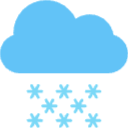
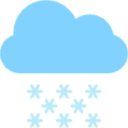
Weather condition styling updates
Condition Icon updates, position and size, for conditions 1 (sunny) - 23 (snow). Updated icon art for fog, flurries, and snow.

diff --git a/FB_Versa3_Sense/weather-watch/app/index.js b/FB_Versa3_Sense/weather-watch/app/index.js
@@ -213,7 +213,7 @@ newfile.initialize((data) => {
     
     const maxTextLength = 15;
     locationLabel.text = truncate(data.location, maxTextLength);
-
+locationLabel.text = "Mmmmmmmmmmmmmm"; // TODO remove
     data = units.temperature === "C" ? data : toFahrenheit(data);
     let degreeSymbol = "\u00B0";
     let lettertMarker = units.temperature === "C" ? `C` : `F`;
@@ -236,47 +236,78 @@ newfile.initialize((data) => {
  * @param {*} condition 
  */
 function updateWeatherConditionIcon(condition) {
+  resetConditionIconStyle();
+
   switch (condition) {
     case sunny:
+      conditionIcon.x = 256;
+      conditionIcon.y = 148;
+      conditionIcon.width = 55;
+      conditionIcon.height = 55;
       conditionIcon.image = "weather-icons/yellow-sun-16526.png";
       break;
     case mostlySunny:
-      conditionIcon.image = "weather-icons/yellow-sun-and-blue-cloud-16528.png";
-      break;
     case partlySunny:
-      conditionIcon.image = "weather-icons/yellow-sun-and-blue-cloud-16528.png";
-      break;
     case someClouds:
       conditionIcon.image = "weather-icons/yellow-sun-and-blue-cloud-16528.png";
       break;
     case hazySun:
-      conditionIcon.image = "weather-icons/blue-clouds-and-yellow-sun.png";
-      break;
     case mostlyCloudy:
       conditionIcon.image = "weather-icons/blue-clouds-and-yellow-sun.png";
       break;
     case cloudy:
+      conditionIcon.x = 242;
+      conditionIcon.y = 140;
+      conditionIcon.width = 68;
+      conditionIcon.height = 68;
       conditionIcon.image = "weather-icons/blue-cloud-and-weather-16527.png";
-      break;
     case overcast:
+      conditionIcon.x = 242;
+      conditionIcon.y = 143;
+      conditionIcon.width = 68;
+      conditionIcon.height = 68;
       conditionIcon.image = "weather-icons/blue-cloud-and-weather-16527.png";
       break;
     case fog:
+      conditionIcon.x = 261;
+      conditionIcon.y = 149;
+      conditionIcon.width = 55;
+      conditionIcon.height = 55;
       conditionIcon.image = "weather-icons/foggy-cloud-forecast-24549.png";
       break;
     case showers:
+      conditionIcon.x = 254;
+      conditionIcon.y = 148;
+      conditionIcon.width = 55;
+      conditionIcon.height = 55;
       conditionIcon.image = "weather-icons/downpour-rainy-day-16531.png";
       break;
     case thunderstorms:
+      conditionIcon.x = 240;
+      conditionIcon.y = 146;
+      conditionIcon.width = 64;
+      conditionIcon.height = 64;
       conditionIcon.image = "weather-icons/cloud-and-yellow-lightning.png";
       break;
     case rain:
+      conditionIcon.x = 261;
+      conditionIcon.y = 149;
+      conditionIcon.width = 55;
+      conditionIcon.height = 55;
       conditionIcon.image = "weather-icons/rainy-and-cloudy-day-16532.png";
       break;
     case flurries:
+      conditionIcon.x = 245;
+      conditionIcon.y = 148;
+      conditionIcon.width = 58;
+      conditionIcon.height = 58;
       conditionIcon.image = "weather-icons/snowfall-and-blue-cloud-16541.png";
       break;
     case snow:
+      conditionIcon.x = 259;
+      conditionIcon.y = 149;
+      conditionIcon.width = 55;
+      conditionIcon.height = 55;
       conditionIcon.image = "weather-icons/snow-and-blue-cloud-16540.png";
       break;
     case ice:
@@ -333,6 +364,16 @@ function updateWeatherConditionIcon(condition) {
     default:
       conditionIcon.image = "";
   }
+}
+
+/**
+ * Resets default styles for weather condition icon.
+ */
+function resetConditionIconStyle() {
+  conditionIcon.x = 245;
+  conditionIcon.y = 144;
+  conditionIcon.width = 60;
+  conditionIcon.height = 60;
 }
 
 /**

diff --git a/FB_Versa3_Sense/weather-watch/resources/styles.css b/FB_Versa3_Sense/weather-watch/resources/styles.css
@@ -98,8 +98,8 @@
 }
 
 #conditionIcon {
-  x: "73%";
-  y: "43%";
+  x: "245";
+  y: "144";
   width: "60";
   height: "60";
 }
